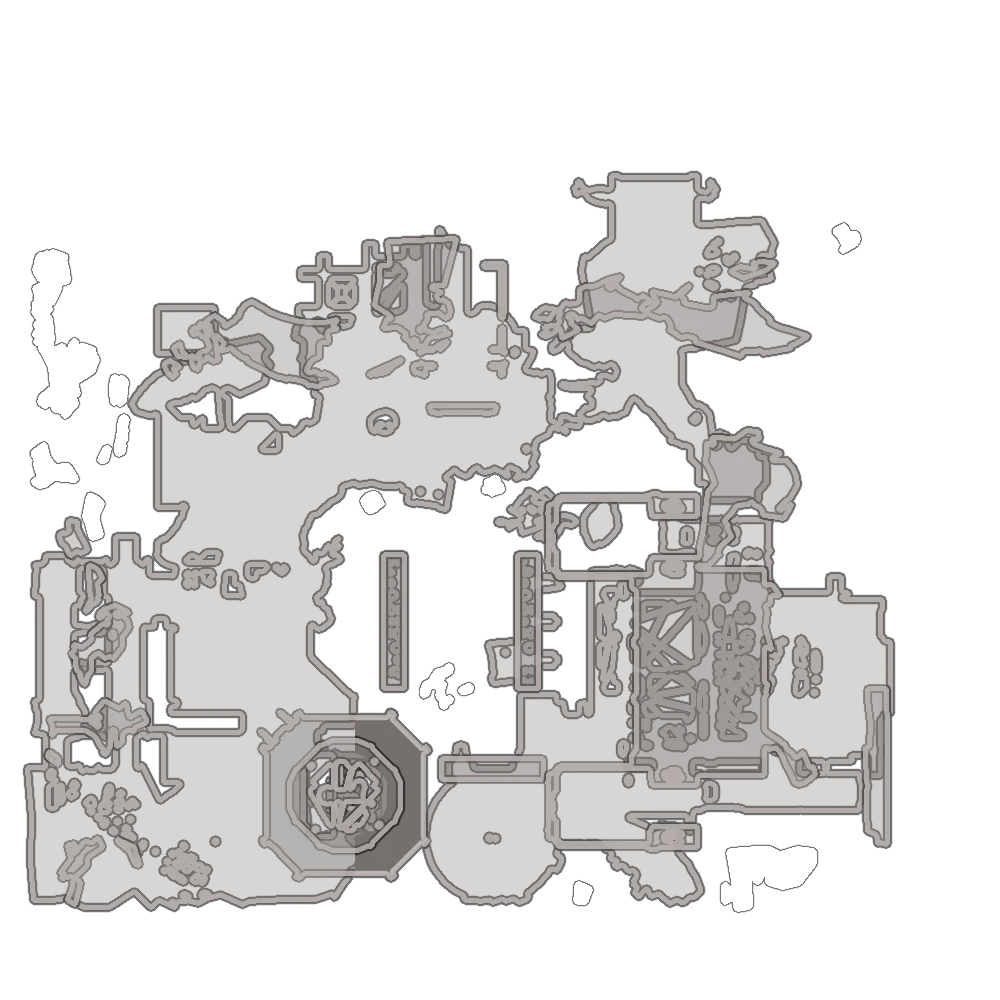
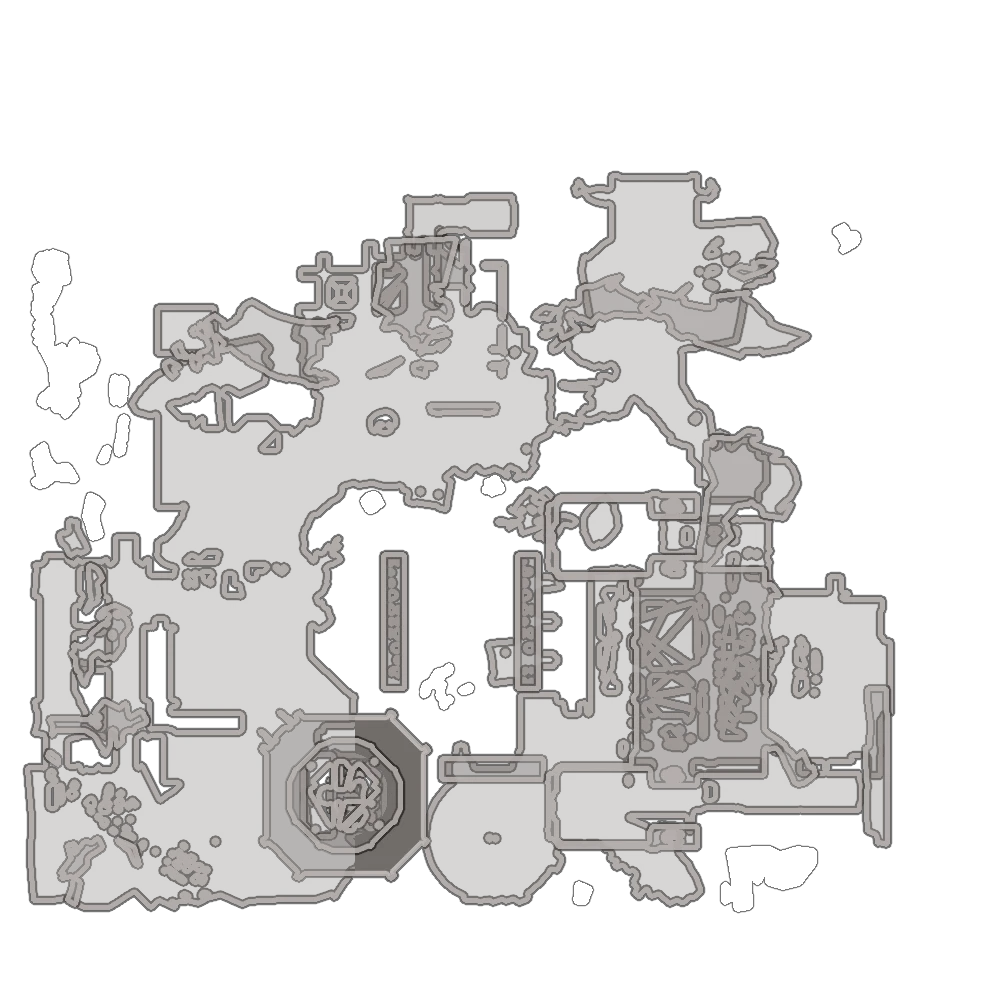
Restore Sechura spawn room minimap

Changed region(s): [[0.403, 0.186, 0.527, 0.31]]

diff --git a/analyzer/index.html b/analyzer/index.html
@@ -156,7 +156,7 @@
   </div>
 
   <script src="./html2canvas.min.js"></script>
-  <script src="./minimaps/catalog-20260822-2.js"></script>
+  <script src="./minimaps/catalog-20260822-3.js"></script>
   <script src="./parser.js?v=20260820-67"></script>
   <script src="./tier-data.js?v=20260816-2"></script>
   <script src="./spawn-alignment.js?v=20260820-1"></script>

diff --git a/analyzer/tools/build_game_minimaps.py b/analyzer/tools/build_game_minimaps.py
@@ -18,7 +18,7 @@ import cv2
 import numpy as np
 
 
-IMMUTABLE_CATALOG_FILENAME = "catalog-20260822-2.js"
+IMMUTABLE_CATALOG_FILENAME = "catalog-20260822-3.js"
 
 
 GROUP_NODES = {
@@ -268,8 +268,10 @@ CORPUS_OUTPOST_SPAWN_ONLY_BAND_INDICES = {
 # The small Defense layout has three real raised platforms and one short
 # catwalk inside the central courtyard. Their tops either disconnect from the
 # surrounding floor or merge into it in a flattened projection, and none has a
-# spawn marker of its own. Select each source-mesh component at its exact floor
-# height so its perimeter remains legible without drawing any outline by hand.
+# spawn marker of its own. Its elevated north spawn room is similarly isolated
+# from the retained lower bands. Select each source-mesh component at its exact
+# floor height so its perimeter remains legible without drawing any outline by
+# hand.
 CORPUS_OUTPOST_COMPONENT_BAND_ANCHORS = {
     CORPUS_OUTPOST_DEFENSE_GROUP: {
         7.0: (
@@ -278,6 +280,7 @@ CORPUS_OUTPOST_COMPONENT_BAND_ANCHORS = {
         ),
         8.5: ((-22.4, 8.5, -26.6),),
         9.5: ((-1.5, 9.5, -30.1),),
+        10.5: ((-23.3, 10.5, 52.3),),
     },
 }
 CORPUS_OUTPOST_COMPONENT_ANCHORS = {
@@ -1101,7 +1104,7 @@ def render_map(
         GAS_SPAWN_04_GROUP: "runtime-edge-rooms-20260822",
         GAS_SPAWN_02_GROUP: "shared-main-mesh-stairs-20260821",
         KADESH_DEFENSE_GROUP: "clockwise-20260821",
-        CORPUS_OUTPOST_DEFENSE_GROUP: "raised-platforms-catwalk-trimmed-20260821",
+        CORPUS_OUTPOST_DEFENSE_GROUP: "north-spawn-room-20260822",
         f"{CORPUS_OUTPOST_DEFENSE_GROUP}~2": "clean-floor-20260821",
         f"{CORPUS_OUTPOST_DEFENSE_GROUP}~3": "right-spawn-floor-20260821",
         OROKIN_TOWER_DEFENSE_GROUP: "ceiling-trim-20260820",
